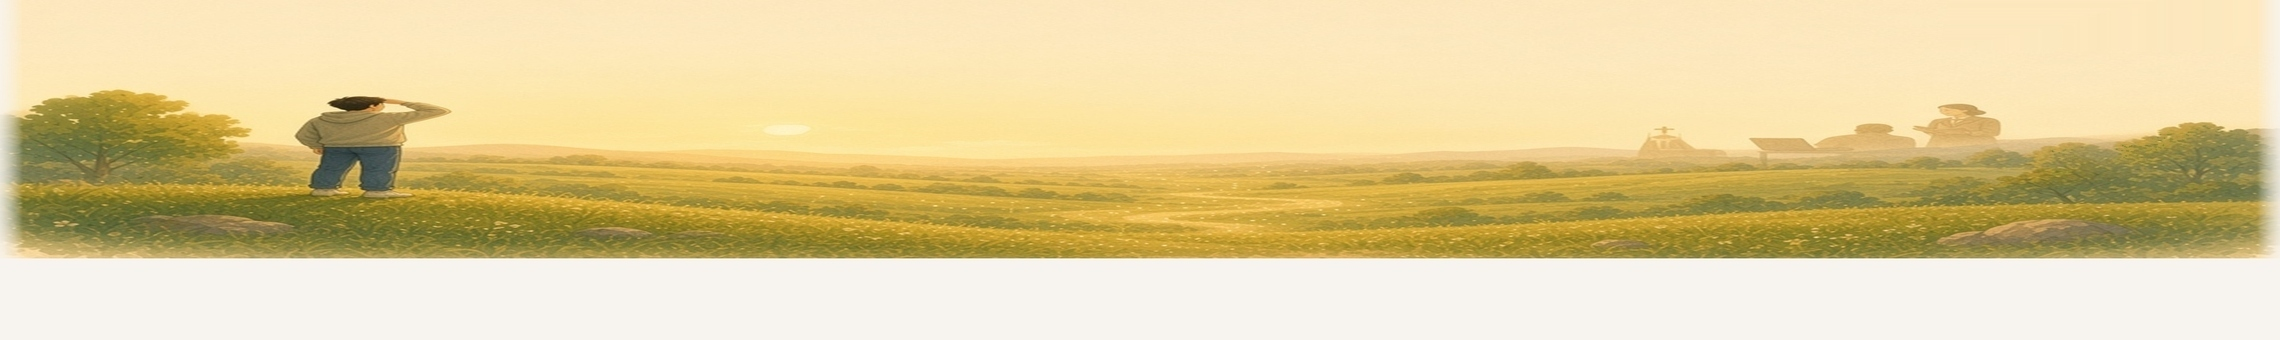
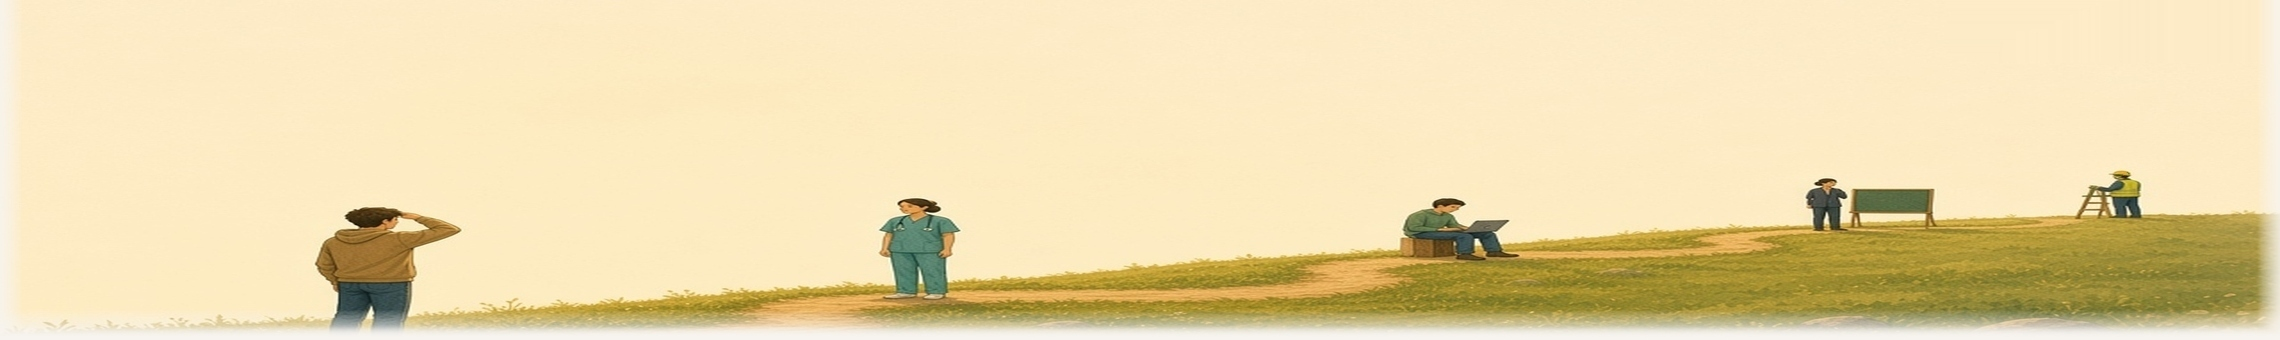
Step-06 u6z1: new droombaan source, step-4 band fill height.
Readable path + job figures; full-bleed 6:1 like step-04.
Cache 20261020-u6z1.

diff --git a/tools/scripts/build-onboarding-rustig-step06-band.py b/tools/scripts/build-onboarding-rustig-step06-band.py
@@ -11,13 +11,9 @@ from PIL import Image
 
 ROOT = Path(__file__).resolve().parents[2]
 RAW = ROOT / "artifacts/onboarding-rustig-panorama-raw"
-DEFAULT_SRC = RAW / "step-06-source-16x9-u6z-seamless.jpg"
+DEFAULT_SRC = RAW / "step-06-source-16x9-u6z1-seamless.jpg"
 OUT = RAW / "step-06-desktop-raw.jpg"
 OUT_SIZE = (2400, 400)
-SLICE_Y0 = 0.07
-SLICE_Y1 = 0.88
-BAND_SCALE_H = 0.76
-FADE_BOTTOM = 10
 
 
 def load_fin():
@@ -39,34 +35,11 @@ def load_step04_helpers():
 
 
 def pick_slice(im: Image.Image) -> Image.Image:
+    """Band window: sky + path + full figures (u6z1, match step-04 fill height)."""
     w, h = im.size
-    return im.crop((0, int(h * SLICE_Y0), w, int(h * SLICE_Y1)))
-
-
-def fit_band_scaled(slice_im: Image.Image, fin) -> Image.Image:
-    tw, th = OUT_SIZE
-    scaled_h = max(1, int(th * BAND_SCALE_H))
-    scaled = slice_im.resize((tw, scaled_h), Image.Resampling.LANCZOS)
-    cream = tuple(int(c) for c in fin.CREAM)
-    canvas = Image.new("RGB", OUT_SIZE, cream)
-    canvas.paste(scaled, (0, 0))
-    return canvas
-
-
-def apply_bottom_fade(im: Image.Image, fin) -> Image.Image:
-    w, h = im.size
-    overlay = Image.new("RGBA", (w, h), (0, 0, 0, 0))
-    px = overlay.load()
-    cream = tuple(int(c) for c in fin.CREAM)
-    for y in range(h):
-        if y < h - FADE_BOTTOM:
-            continue
-        for x in range(w):
-            t = (y - (h - FADE_BOTTOM)) / max(1, FADE_BOTTOM - 1)
-            a = int(255 * min(1.0, t**0.85))
-            if a:
-                px[x, y] = (*cream, a)
-    return Image.alpha_composite(im.convert("RGBA"), overlay).convert("RGB")
+    y0 = int(h * 0.10)
+    y_end = int(h * 0.80)
+    return im.crop((0, y0, w, y_end))
 
 
 def main() -> None:
@@ -76,10 +49,10 @@ def main() -> None:
     fin = load_fin()
     s4 = load_step04_helpers()
     im = s4.heal_topright_sky(Image.open(src).convert("RGB"))
-    band = fit_band_scaled(pick_slice(im), fin)
+    band = pick_slice(im).resize(OUT_SIZE, Image.Resampling.LANCZOS)
     band = fin.apply_cream_fades(band)
     band = s4.defuse_right_foliage_red(band)
-    band = apply_bottom_fade(band, fin)
+    band = s4.apply_strong_bottom_fade(band, fin)
     OUT.parent.mkdir(parents=True, exist_ok=True)
     band.save(OUT, quality=98, optimize=True)
     band = s4.defuse_right_foliage_red(Image.open(OUT))

diff --git a/tools/scripts/report-onboarding-rustig-step06.py b/tools/scripts/report-onboarding-rustig-step06.py
@@ -16,7 +16,7 @@ ROOT = Path(__file__).resolve().parents[2]
 OUT = Path("/opt/cursor/artifacts/onboarding-rustig-mockups")
 DESK_JPEG = ROOT / "Jobsy.Web/wwwroot/images/onboarding/rustig-panorama/step-06-desktop.jpg"
 MOB_JPEG = ROOT / "Jobsy.Web/wwwroot/images/onboarding/rustig-panorama/step-06-mobile.jpg"
-CACHE = "20261020-u6z"
+CACHE = "20261020-u6z1"
 
 
 def lobster_red_mask(rgb: np.ndarray) -> np.ndarray:
@@ -63,7 +63,7 @@ def assert_hero_jpeg(path: Path, label: str) -> None:
     cream = np.array([247.0, 244.0, 240.0])
     dist = np.linalg.norm(rgb.astype(np.float32) - cream, axis=2)
     rows = np.where(dist.max(axis=1) > 30)[0]
-    min_bottom = 0.75 if "mobile" in label else 0.74
+    min_bottom = 0.86 if "mobile" in label else 0.90
     if rows.size == 0 or rows.max() < h * min_bottom:
         raise SystemExit(f"FAIL {label}: bottom clipped (max y={rows.max() if rows.size else 0})")
     band = rgb[: int(h * 0.58), int(w * 0.90) :]

diff --git a/Jobsy.Web/OnboardingRustigMockups/OnboardingRustigPanoramaAssets.cs b/Jobsy.Web/OnboardingRustigMockups/OnboardingRustigPanoramaAssets.cs
@@ -2,7 +2,7 @@ namespace Jobsy.Web.OnboardingRustigMockups;
 
 public static class OnboardingRustigPanoramaAssets
 {
-    public const string Version = "20261020-u6z";
+    public const string Version = "20261020-u6z1";
 
     public static string Desktop(string slug) =>
         $"/images/onboarding/rustig-panorama/{slug}-desktop.jpg?v={Version}";
